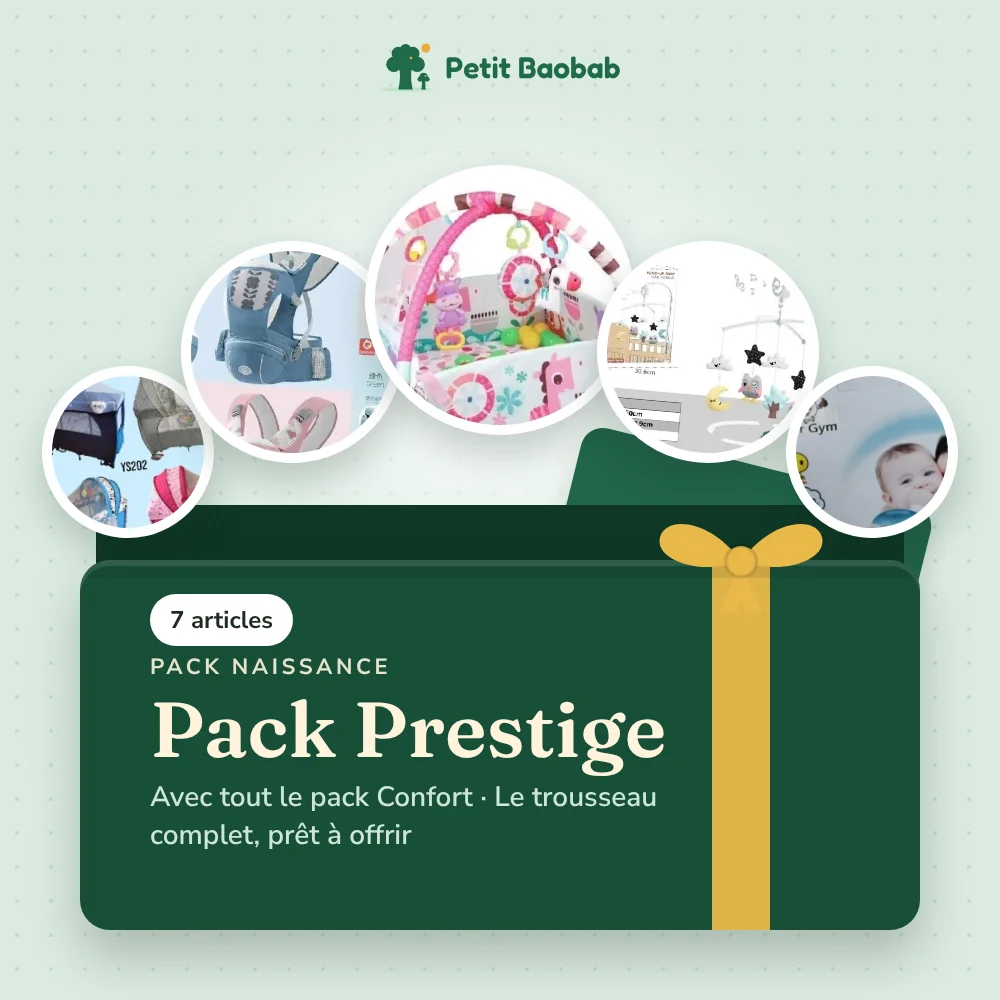
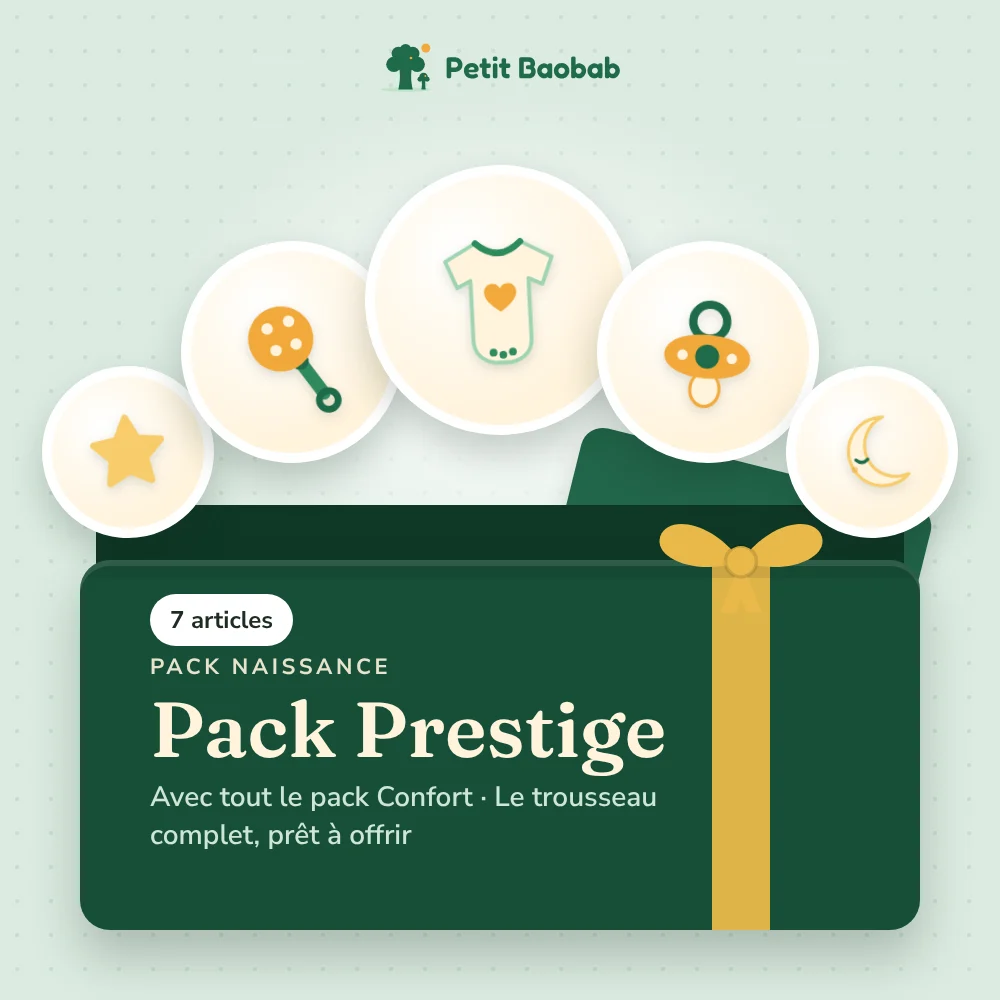
Images des packs : illustrations seulement, plus de photos d'articles
Claude-Session: https://claude.ai/code/session_019Eypp7kRArDkZef2GEFNBa

Changed region(s): [[0.031, 0.186, 0.961, 0.527], [0.651, 0.248, 0.682, 0.279]]

diff --git a/brand/packs-images.js b/brand/packs-images.js
@@ -1,4 +1,4 @@
-/* Images des packs et valises (1000 × 1000, WebP) : vraies photos des articles du pack, posées comme un trousseau étalé,
+/* Images des packs et valises (1000 × 1000, WebP) : illustrations maison (petites choses de bébé dessinées, reprises de brand/ambiance.js),
    aux couleurs de la marque, avec le nom du pack. La valise maman, dont les articles ne sont pas au catalogue, est illustrée.
    Les prix ne sont pas écrits sur l'image (ils changent) : seulement le nom, la phrase d'accroche et le nombre d'articles.
    Usage : node brand/packs-images.js <dossier des polices @fontsource>   → images/pack-*.webp, images/valise-*.webp
@@ -11,6 +11,11 @@ if (!FONTS) { console.error('dossier des polices manquant (node_modules/@fontsou
 const src = fs.readFileSync(path.join(ROOT, 'petit-baobab.html'), 'utf8');
 const PRODUCTS = vm.runInNewContext('(' + src.match(/var PRODUCTS = ([\s\S]*?);\n\s*(?=var |\/\*)/)[1] + ')');
 const byId = Object.fromEntries(PRODUCTS.map(p => [p.id, p]));
+const AMB = fs.readFileSync(path.join(__dirname, 'ambiance.js'), 'utf8');
+const DRAW = vm.runInNewContext('(' + AMB.slice(AMB.indexOf('var S = {') + 8, AMB.indexOf('\n  };', AMB.indexOf('var S = {')) + 4) + ')');
+const DRAW_CSS = '.ab-g1{fill:#1F6B4A}.ab-g2{fill:#2E8A5E}.ab-g3{fill:#9ED4B2}.ab-s1{fill:#F2A93B}.ab-s2{fill:#F8CC6B}.ab-c{fill:#FFF3DC}.ab-w{fill:#fff}.ab-ink{fill:#1E2B22}.ab-bub{fill:rgba(158,212,178,.25);stroke:rgba(46,138,94,.6)}[class*="abk-"]{stroke-linecap:round;stroke-linejoin:round}.abk-g1{stroke:#1F6B4A}.abk-g2{stroke:#2E8A5E}.abk-g3{stroke:#9ED4B2}.abk-s1{stroke:#F2A93B}.abk-s2{stroke:#F8CC6B}.abk-c{stroke:#FFF3DC}.abk-w{stroke:#fff}path[class^="abk-"],circle[class^="abk-"]{fill:none}';
+// dessins par pack (illustrations, pas de photos)
+const ICONS = { 'pack-essentiel': ['bootie', 'onesie', 'bottle', 'pacifier', 'rattle'], 'pack-confort': ['foot', 'bottle', 'onesie', 'bubble', 'bootie'], 'pack-prestige': ['star', 'rattle', 'onesie', 'pacifier', 'moon'], 'valise-bebe': ['pacifier', 'onesie', 'bootie', 'bottle', 'foot'], 'valise-complete': ['bottle', 'onesie', 'bootie'] };
 const MARK = JSON.parse(fs.readFileSync(path.join(__dirname, 'mark.json'), 'utf8')).mark;
 const font = (fam, dir, w) => `@font-face{font-family:"${fam}";font-weight:${w};src:url("file://${path.join(FONTS, dir, 'files', `${dir}-latin-${w}-normal.woff2`)}")}`;
 const FACES = [font('Fraunces', 'fraunces', 600), font('Fredoka', 'fredoka', 600), font('Nunito Sans', 'nunito-sans', 600), font('Nunito Sans', 'nunito-sans', 700)].join('');
@@ -51,13 +56,11 @@ const SCENES = {
 };
 function page(p) {
   const t = THEMES[p.id], c = SCENES[p.id];
-  let pics;
-  if (p.id === 'valise-complete') pics = photos(byId['valise-bebe']).slice(0, 4).map(x => x.image);
-  else pics = photos(p).slice(0, 5).map(x => x.image);
+  const pics = ICONS[p.id] || [];
   // éventail de médaillons : du centre vers les bords, les plus grands au milieu
   const SLOTS = [[500, 300, 270], [292, 352, 222], [708, 352, 222], [128, 452, 172], [872, 452, 172]];
   const order = pics.length >= 5 ? [3, 1, 0, 2, 4] : pics.length === 4 ? [1, 0, 2, 4] : [1, 0, 2];
-  const medals = pics.map((src, i) => { const [x, y, d] = SLOTS[order[i] === undefined ? i : order[i]]; return `<div class="medal" style="left:${x - d / 2}px;top:${y - d / 2}px;width:${d}px;height:${d}px;--r:${[-6, 4, -3, 5, -4][i]}deg"><div class="ph" style="background-image:url('file://${path.join(ROOT, src)}')"></div></div>`; }).join('');
+  const medals = pics.map((src, i) => { const [x, y, d] = SLOTS[order[i] === undefined ? i : order[i]]; return `<div class="medal" style="left:${x - d / 2}px;top:${y - d / 2}px;width:${d}px;height:${d}px;--r:${[-6, 4, -3, 5, -4][i]}deg"><div class="ic"><svg viewBox="0 0 48 48">${DRAW[src]}</svg></div></div>`; }).join('');
   const chips = p.id === 'valise-maman' ? (p.contents || []).slice(0, 6).map((x, i) => { const pos = [[70, 170], [520, 150], [100, 262], [540, 242], [80, 354], [520, 334]][i]; return `<span class="chip" style="left:${pos[0]}px;top:${pos[1]}px;--r:${[-4, 3, 2, -3, 4, -2][i]}deg">${x.replace(/^\d+\s*(paquet|lot|paire)?\s*(de|d')?\s*/i, '')}</span>`; }).join('') : '';
   const maman = p.id === 'valise-complete' ? `<div class="medal mam" style="left:${872 - 86}px;top:${452 - 86}px;width:172px;height:172px;--r:5deg"><div class="mm">${SUITCASE}<span>maman</span></div></div>` : '';
   const mark = (fill, trunk) => MARK.replace(/class="lg-sun"/g, 'fill="#F2A93B"').replace(/class="lg-fruit"/g, 'fill="#F2A93B"').replace(/class="lg-ground"/g, `fill="${fill}"`).replace(/class="lg-trunk"/g, `fill="${trunk}"`).replace(/class="lg-tree"/g, `fill="${trunk}"`);
@@ -74,7 +77,9 @@ body{width:1000px;height:1000px;background:${c.bg};font-family:"Nunito Sans",san
 .lid{position:absolute;left:560px;top:420px;width:360px;height:110px;background:${c.lid};border-radius:22px;transform:rotate(14deg);transform-origin:left bottom;box-shadow:0 10px 24px rgba(0,0,0,.12)}
 .case .lid{left:96px;width:808px;top:430px;height:90px;transform:none;border-radius:30px 30px 8px 8px}
 .medal{position:absolute;border-radius:50%;background:#fff;padding:10px;box-shadow:0 18px 36px rgba(20,40,28,.22);transform:rotate(var(--r))}
-.medal .ph{width:100%;height:100%;border-radius:50%;background-size:165%;background-position:42% 26%;background-repeat:no-repeat}
+.medal .ic{width:100%;height:100%;border-radius:50%;background:radial-gradient(circle at 35% 30%,#FFFFFF,#FFF3DC 70%);display:grid;place-items:center}
+.medal .ic svg{width:62%;height:62%;overflow:visible;filter:drop-shadow(0 4px 6px rgba(20,40,28,.15))}
+${DRAW_CSS}
 .mm{width:100%;height:100%;border-radius:50%;background:#FFF3DC;display:grid;place-items:center;position:relative;overflow:hidden}
 .mm svg{width:62%;margin-top:-14px}.mm span{position:absolute;bottom:18px;font-family:Fredoka;font-weight:600;font-size:22px;color:#1F6B4A}
 .chip{position:absolute;background:#fff;border-radius:999px;padding:13px 22px;font-weight:700;font-size:26px;color:#3A2A20;box-shadow:0 10px 24px rgba(20,40,28,.14);transform:rotate(var(--r));white-space:nowrap}
